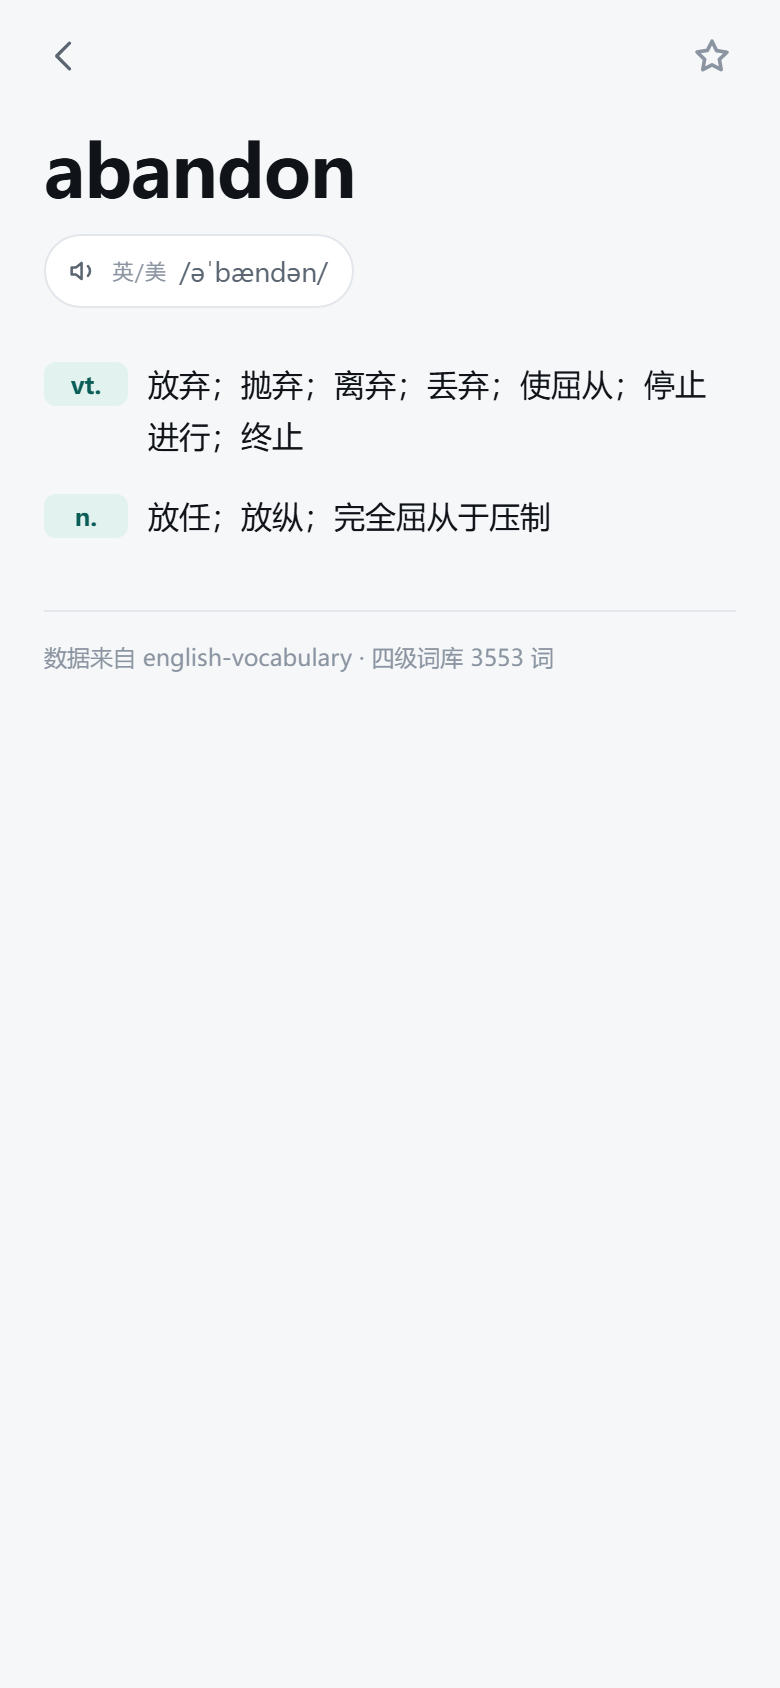
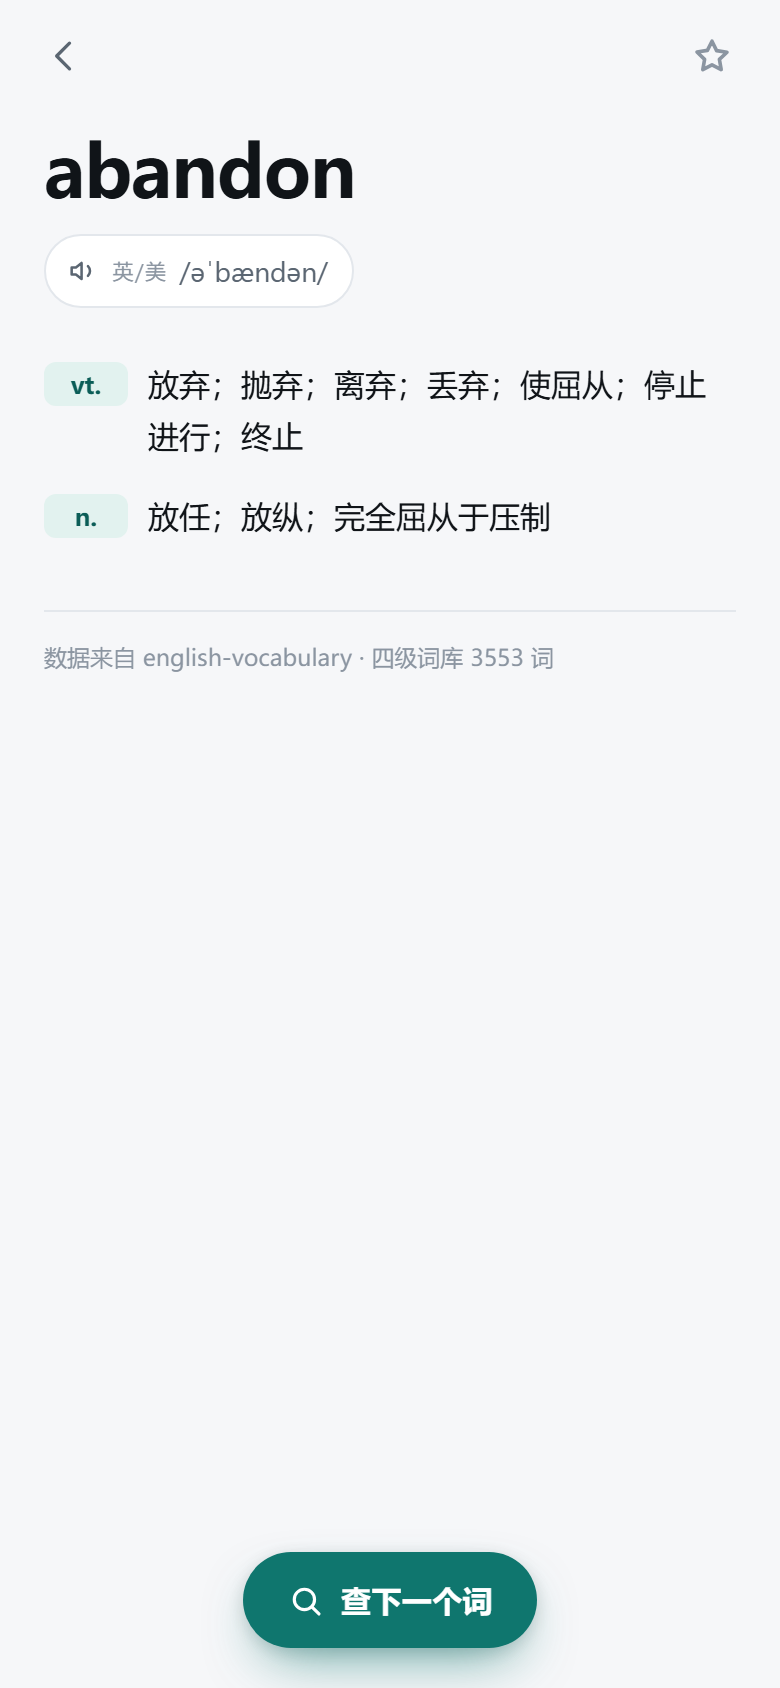
feat: 详情页底部加「查下一个词」快捷键
- 一键关闭详情、清空搜索框、聚焦输入框（手机自动弹键盘）
- 用 replaceState 抹掉 #word，返回键行为保持不变
- sw 版本升到 cet4-v2，端到端测试补到 23 项

Changed region(s): [[0.3077, 0.8934, 0.7077, 1.0]]

diff --git a/assets/style.css b/assets/style.css
@@ -582,8 +582,52 @@ svg {
 .detail-body {
   flex: 1;
   overflow-y: auto;
-  padding: 4px 22px calc(40px + var(--safe-b));
+  padding: 4px 22px calc(104px + var(--safe-b));
   -webkit-overflow-scrolling: touch;
+}
+
+/* 详情页底部悬浮按钮：一键回到搜索框查下一个词 */
+.fab {
+  position: absolute;
+  left: 50%;
+  bottom: calc(20px + var(--safe-b));
+  transform: translateX(-50%);
+  z-index: 5;
+  display: inline-flex;
+  align-items: center;
+  gap: 8px;
+  height: 48px;
+  padding: 0 22px;
+  border-radius: 999px;
+  background: var(--accent);
+  color: #fff;
+  font-size: 15px;
+  font-weight: 600;
+  letter-spacing: 0.2px;
+  white-space: nowrap;
+  box-shadow: 0 12px 28px -10px color-mix(in srgb, var(--accent) 70%, transparent),
+    0 2px 8px rgba(10, 20, 24, 0.14);
+  transition: transform 0.12s ease, box-shadow 0.12s ease;
+}
+
+.fab svg {
+  width: 19px;
+  height: 19px;
+  stroke-width: 2;
+}
+
+.fab:active {
+  transform: translateX(-50%) scale(0.96);
+}
+
+:root[data-theme="dark"] .fab {
+  color: #04211e;
+}
+
+@media (prefers-color-scheme: dark) {
+  :root:not([data-theme="light"]) .fab {
+    color: #04211e;
+  }
 }
 
 .word {

diff --git a/assets/app.js b/assets/app.js
@@ -405,6 +405,20 @@ function closeDetail() {
   state.detailToken++;
 }
 
+/** 查下一个词：关详情、清空搜索框、直接把键盘唤起来 */
+function startNewSearch() {
+  history.replaceState(null, "", location.pathname + location.search);
+  closeDetail();
+  switchTab("search");
+
+  const q = $("q");
+  q.value = "";
+  $("clearBtn").hidden = true;
+  runSearch("");
+  window.scrollTo({ top: 0 });
+  q.focus({ preventScroll: true });
+}
+
 function handleHash() {
   const raw = decodeURIComponent(location.hash.replace(/^#/, ""));
   if (raw) {
@@ -648,6 +662,7 @@ function bindEvents() {
   $("backBtn").addEventListener("click", () => history.back());
   $("starBtn").addEventListener("click", toggleFav);
   $("exportBtn").addEventListener("click", exportFav);
+  $("newSearchBtn").addEventListener("click", startNewSearch);
 }
 
 function switchTab(name) {

diff --git a/index.html b/index.html
@@ -111,6 +111,13 @@
           </button>
         </header>
         <div class="detail-body" id="detailBody"></div>
+        <button class="fab" id="newSearchBtn" type="button" aria-label="查下一个词，回到搜索框">
+          <svg viewBox="0 0 24 24" aria-hidden="true">
+            <circle cx="11" cy="11" r="6.4" />
+            <path d="M16 16l4.2 4.2" />
+          </svg>
+          <span>查下一个词</span>
+        </button>
       </section>
 
       <div class="toast" id="toast" role="status" aria-live="polite"></div>

diff --git a/sw.js b/sw.js
@@ -3,7 +3,7 @@
  * 词库是静态文件，所以策略很简单：装好之后全部走缓存，网络只用于更新版本。
  * 改了词库或页面后，把 VERSION 加一，用户下次打开就会拿到新内容。
  */
-const VERSION = "cet4-v1";
+const VERSION = "cet4-v2";
 
 const SHELL = [
   "./",

diff --git a/README.md b/README.md
@@ -12,6 +12,7 @@
 - **3553 个四级词条**：合并《四级词汇乱序便携版》与《星火四级词汇必背乱序版》，去重后 3553 词
 - **英式 / 美式双音标**，点一下就能读（默认走系统 TTS，可切换在线真人发音）
 - **搜索**：前缀 → 包含 → 拼写容错（`recieve` 也能查到 receive）；中文意思也能反查（输入「放弃」出 abandon）
+- **查下一个词**：看完一个词，点详情页底部的「查下一个词」，直接回到空搜索框、键盘自动弹出
 - **生词本**：星标收藏，存在本机浏览器里，可导出 CSV 丢进 Anki
 - **最近查询** 与 **随机一词**
 - **深色 / 浅色 / 跟随系统**
@@ -106,7 +107,7 @@ node scripts/build-data.mjs
 
 ```bash
 node scripts/test-search.mjs    # 搜索算法 + 数据完整性自测（21 项）
-node scripts/e2e.mjs            # 用本机 Chrome 在 390×844 手机尺寸下跑一遍界面，出截图（19 项）
+node scripts/e2e.mjs            # 用本机 Chrome 在 390×844 手机尺寸下跑一遍界面，出截图（23 项）
 node scripts/pack.mjs           # 生成可部署的 dist/
 ```
 
